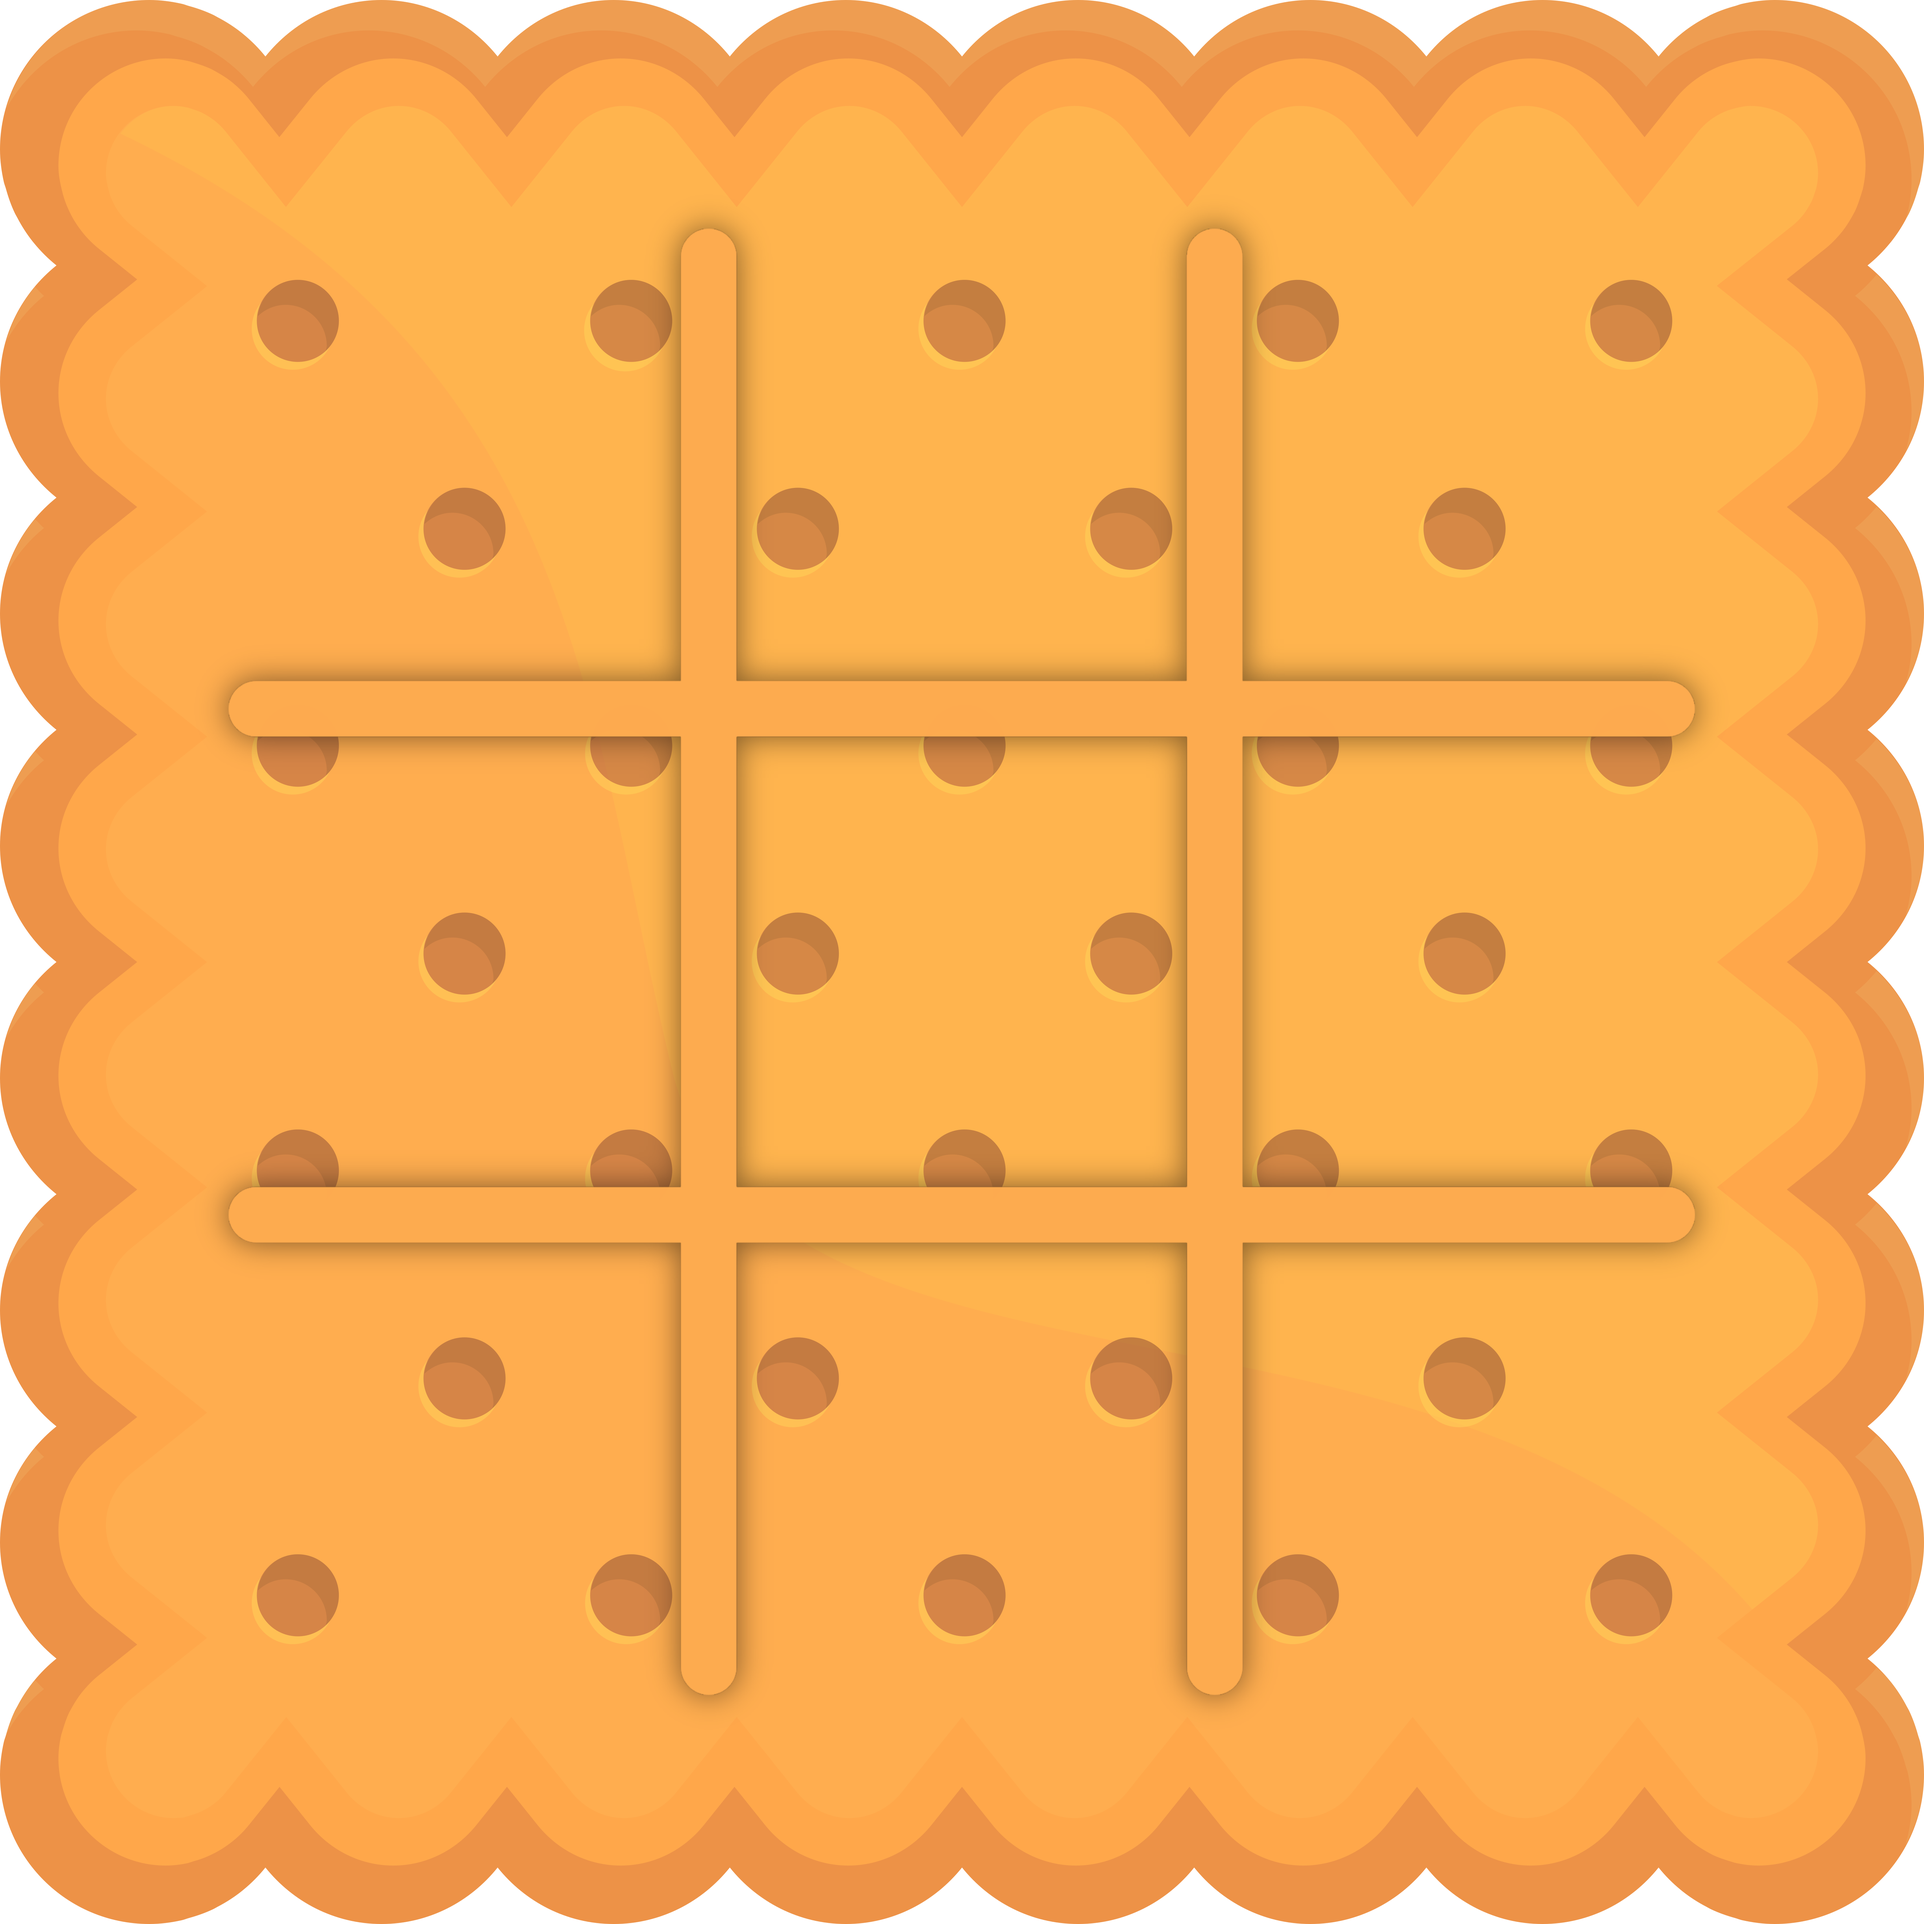
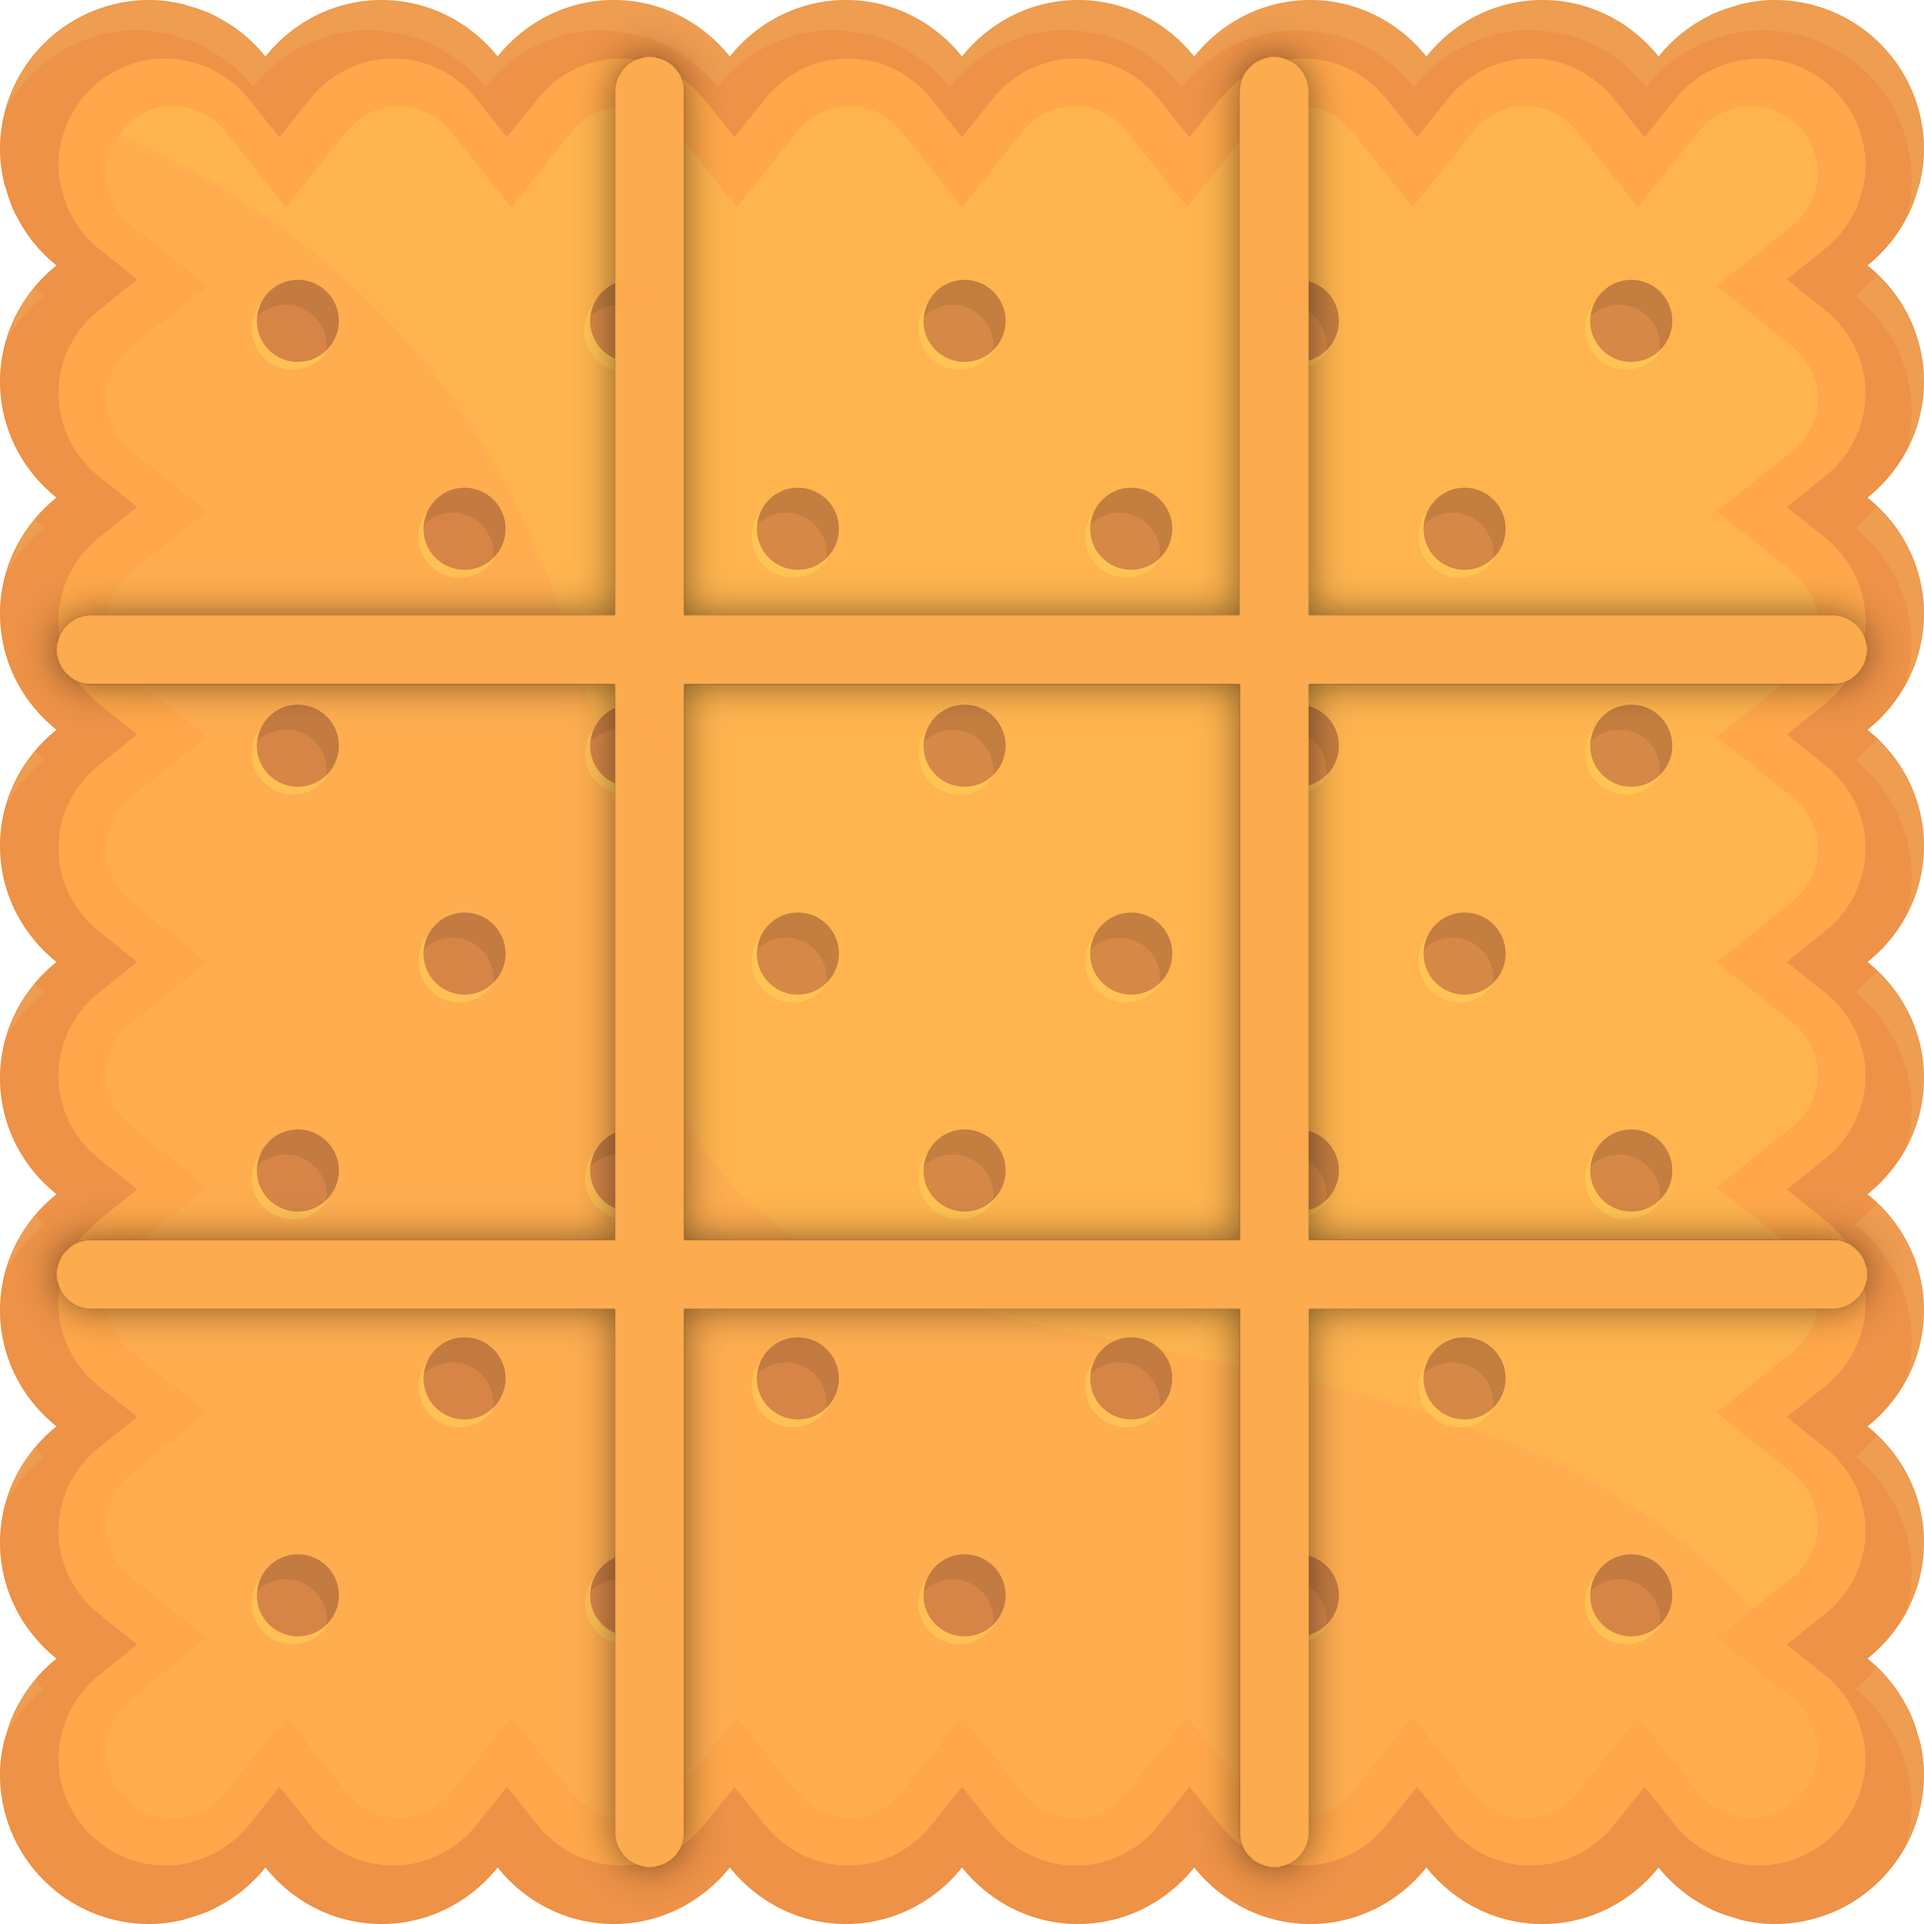
style: :art: best board

Changed region(s): [[0.0, 0.0, 0.9984, 0.9984]]

diff --git a/src/components/content/Content.jsx b/src/components/content/Content.jsx
@@ -8,10 +8,10 @@ export default function Content() {
 
   const [board, setBoard] = useState(Array(9).fill(null));
   const [isXNext, setIsXNext] = useState(true);
-  const [selectedBoard, setSelectedBoard] = useState(1);
+  const [selectedBoard, setSelectedBoard] = useState(0);
 
   const boardImages = [
-    "/basket.webp",
+    "/basketbao.webp",
     "/beach.webp",
     "/biscuit.webp",
     "/galaxy.webp",
@@ -21,6 +21,46 @@ export default function Content() {
     "/sakura.webp",
     "/sushimat.webp"
   ]
+
+  const pawnsForBoards = {
+    0: {
+      X: "/basketpawn1.webp",
+      O: "/basketpawn2.webp",
+    },
+    1: {
+      X: "/beachpawn1.webp",
+      O: "/beachpawn2.webp",
+    },
+    2: {
+      X: "/biscuitpawn1.webp",
+      O: "/biscuitpawn2.webp",
+    },
+    3: {
+      X: "/galaxypawn1.webp",
+      O: "/galaxypawn2.webp",
+    },
+    4: {
+      X: "/nenupharpawn1.webp",
+      O: "/nenupharpawn2.webp",
+    },
+    5: {
+      X: "/orangepawn1.webp",
+      O: "/orangepawn2.webp",
+    },
+    6: {
+      X: "/platterpawn1.webp",
+      O: "/platterpawn2.webp",
+    },
+    7: {
+      X: "/sakurapawn1.webp",
+      O: "/sakurapawn2.webp",
+    },
+    8: {
+      X: "/sushimatpawn1.webp",
+      O: "/sushimatpawn2.webp",
+    }
+
+  }
 
   const handleClick = (index) => {
     if (board[index] || calculateWinner(board)) return;
@@ -55,7 +95,7 @@ export default function Content() {
 
         {board[index] && (
           <Image
-            src={`/${board[index] === "X" ? "beachpawn1.webp" : "beachpawn2.webp"}`}
+            src={pawnsForBoards[selectedBoard][board[index]]}
             width={160}
             height={160}
             alt="Pion"
@@ -67,6 +107,8 @@ export default function Content() {
 
   const changeBoard = () => {
     setSelectedBoard((prevIndex) => (prevIndex + 1) % boardImages.length);
+    setBoard(Array(9).fill(null));
+    setIsXNext(true);
   }
 
   function calculateWinner(board) {
